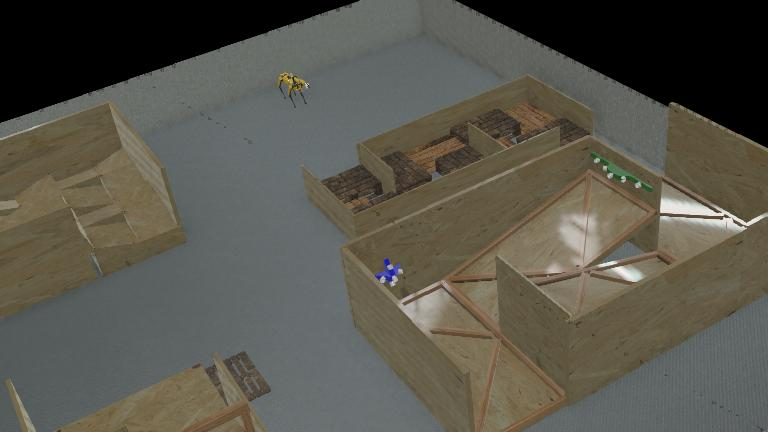
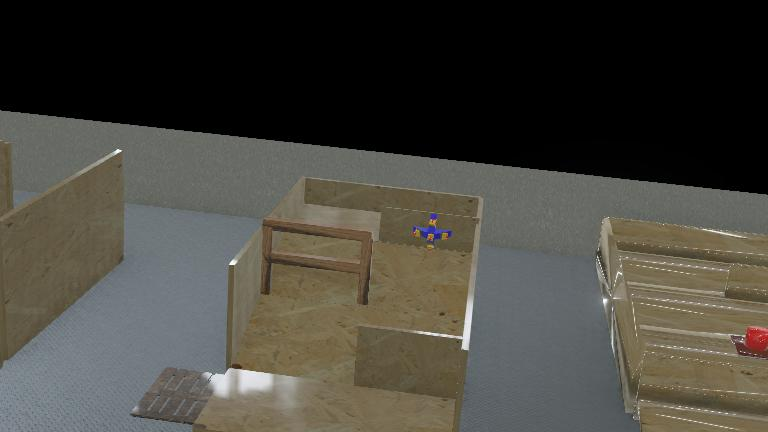
added staris arena and publish estop in incline

diff --git a/webots_spot/spot_driver.py b/webots_spot/spot_driver.py
@@ -390,7 +390,7 @@ class SpotDriver:
             motor.setPosition(motor_offsets[idx % 3] + motors_target_pos[idx])
 
     def __build_transform_def_list(self):
-        transforms = ["Spot","Linear_Inspect_KRail","Omni_Inspect_KRail","Omni_Estop_KRail","KRail_Start","KRail_End"]
+        transforms = ["Spot","Linear_Inspect_KRail","Omni_Inspect_KRail","Omni_Estop_KRail","KRail_Start","KRail_End", "Omni_Estop_Incline"]
         return transforms
 
     def spot_inverse_control(self):
